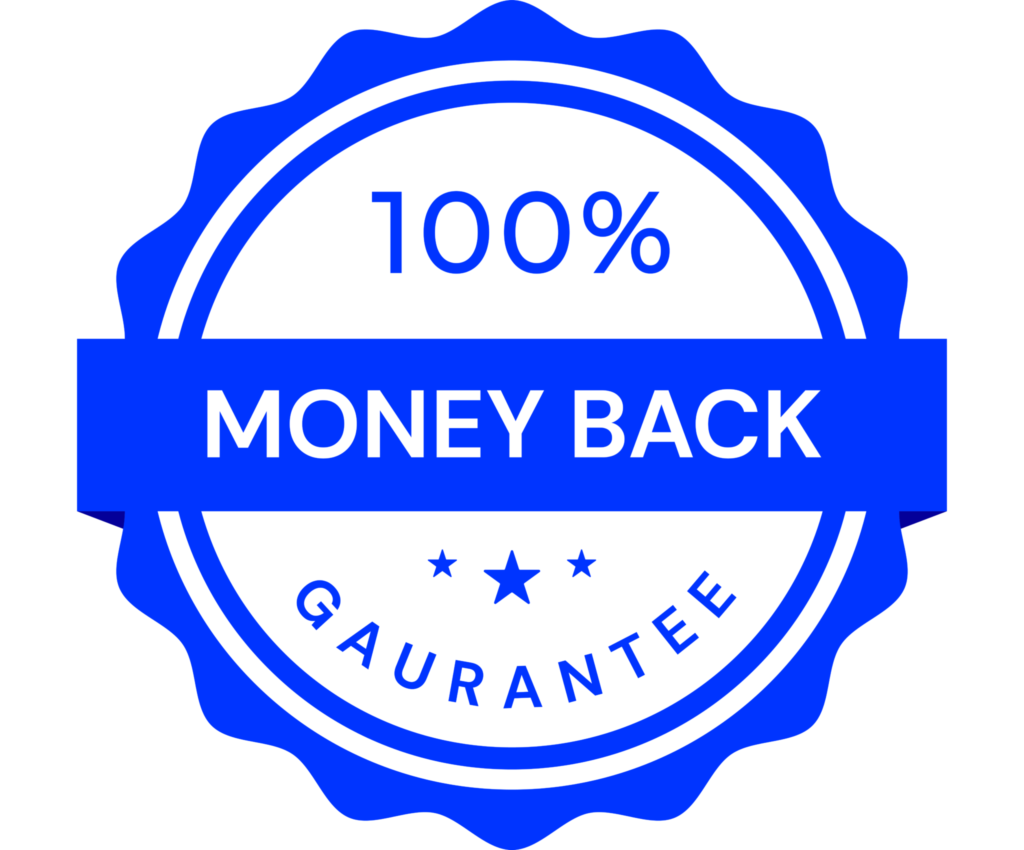
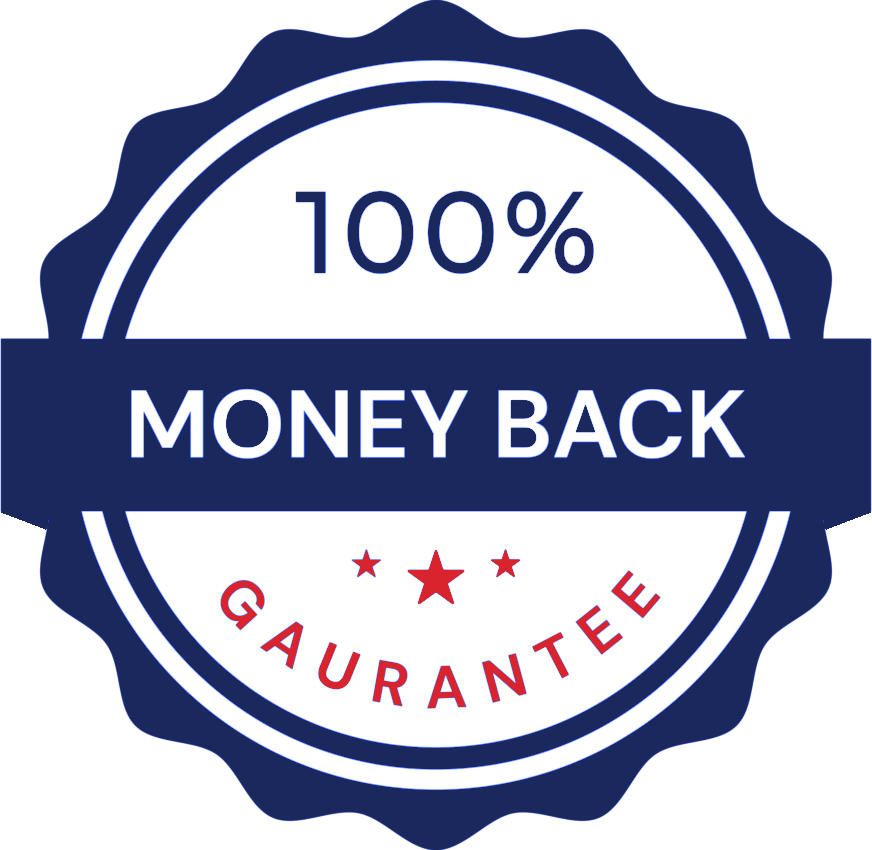
version 1.4.9-bug fix

diff --git a/components/home/home.js b/components/home/home.js
@@ -389,7 +389,7 @@ const HomeComponent = (props) => {
                   </Grid>
                   <Grid item xs={4} sm={12}>
                     <FormControl
-                      style={{ width: "110%", left: "3px" }}
+                      style={{ width: "100%" }}
                       sx={{ m: 0 }}
                       className={classes.homeServiceiconcategorieslbl}
                     >
@@ -742,7 +742,7 @@ const HomeComponent = (props) => {
                     <Grid container>
                       <Grid item xs={4} sm={12}>
                         <TextField
-                          style={{ width: "80%" }}
+                          style={{ width: "100%" }}
                           id="standard-required"
                           label="Name"
                           InputLabelProps={{
@@ -758,7 +758,7 @@ const HomeComponent = (props) => {
                       </Grid>
                       <Grid item xs={12} sm={12}>
                         <TextField
-                          style={{ width: "80%" }}
+                          style={{ width: "100%" }}
                           id="standard-required"
                           label="email"
                           value={enteredEmail}
@@ -775,7 +775,7 @@ const HomeComponent = (props) => {
                       </Grid>
                       <Grid item xs={12} sm={12}>
                         <TextField
-                          style={{ width: "80%" }}
+                          style={{ width: "100%" }}
                           id="standard-required"
                           label="Phone"
                           value={enteredPhone}
@@ -793,7 +793,7 @@ const HomeComponent = (props) => {
                       </Grid>
                       <Grid item xs={12} sm={12}>
                         <TextField
-                          style={{ width: "80%" }}
+                          style={{ width: "100%" }}
                           id="standard-required"
                           label="subject"
                           value={enteredMessage}
@@ -819,7 +819,7 @@ const HomeComponent = (props) => {
                         }}
                       >
                         <FormControl
-                          style={{ width: "80%" }}
+                          style={{ width: "100%" }}
                           sx={{ m: 0 }}
                           // style={{top:'30px',width:'183px'}}
                         >
@@ -867,7 +867,7 @@ const HomeComponent = (props) => {
                           top: "23px",
                           position: "relative",
                           left: "0px",
-                          maxWidth: "82%",
+                          maxWidth: "100%",
                         }}
                         item
                         xs={12}

diff --git a/pages/moneyBack.js b/pages/moneyBack.js
@@ -58,11 +58,11 @@ const MoneyBack = () => {
         
         borderStyle: 'solid',
         borderWidth: "0px 0px 0px 20px",
-        borderColor: "#0231f7",
+        borderColor: "#1f255e",
         transition: "background 0.3s, border 0.3s, border-radius 0.3s, box-shadow 0.3s",
             padding: "0px 0px 0px 0px",
         boxShadow:' 0px 0px 30px rgba(127, 137, 161, 0.25);'}}>
-   <h3 style={{color:'#da4536',textAlign:'center',top:'0px',position:'relative'}}>Spad Software Money Back Policy</h3>
+   <h3 style={{color:'#da4536',textAlign:'center',top:'0px',position:'relative', marginTop: '0px'}}>Spad Software Money Back Policy</h3>
 <Grid container rowSpacing={1} spacing={{ xs: 2, md: 3 }} columns={{ xs: 4, sm: 8, md: 12 }}
 style={{top:'0px',position:'relative'
 }}>
@@ -89,7 +89,7 @@ style={{top:'0px',position:'relative'
    in business for the long term. for some reason, 
    if you don’t feel satisfied we’re not satisfied as well
     either we do everything we can to make you happy or
-    &nbsp;<span style={{borderBottom:'3px solid #0231f7',color:'#0231f7'}}> you’ll 
+    &nbsp;<span style={{borderBottom:'3px solid #d9232d',color:'#d9232d'}}> you’ll 
     get 100% money back </span>after seeing the first design.</div>
 
    <div style={{paddingTop:'10px'}}><Image

diff --git a/components/layout/main-navigation.js b/components/layout/main-navigation.js
@@ -86,15 +86,16 @@ function MainNavigation(props) {
 
     const options = { passive: true }; // options must match add/remove event
     const scroll = (event) => {
-      if(event.path[1].window.pageYOffset){
-      if(event.path[1].window.pageYOffset<500){
-        setRerender(false);
-      }
-      else{
-        setRerender(true);
-        // console.log(rerender)
-      }
-      }
+      console.log(event)
+      // if(event.path[1]){
+      // if(event.path[1].window.pageYOffset<500){
+      //   setRerender(false);
+      // }
+      // else{
+      //   setRerender(true);
+      //   // console.log(rerender)
+      // }
+      // }
     };
     document.addEventListener("scroll", scroll, options);
     // remove event on unmount to prevent a memory leak

diff --git a/components/howItWorks/howItWorks.js b/components/howItWorks/howItWorks.js
@@ -52,7 +52,7 @@ const HowItWorks = () => {
         padding: "0px 0px 0px 0px",
     boxShadow:' 0px 0px 30px rgba(127, 137, 161, 0.25)'
     }}>
-      <h5 style={{fontSize:'18px',color:'#d1482d',textAlign:'center'}}>How Spad Software Works-It's 3 step process.</h5>
+      <h5 style={{fontSize:'18px',color:'#d1482d',textAlign:'center', marginTop: '0px'}}>How Spad Software Works-It's 3 step process.</h5>
       <div style={{fontSize:'18px',color:'#d1482d',textAlign:'center'}}>Start</div>
     <Timeline position="alternate" >
     <TimelineItem>

diff --git a/components/home/home.module.css b/components/home/home.module.css
@@ -300,6 +300,8 @@
   width: auto;
   animation: shake 1.5s infinite linear;
   transform: translate3d(0, 0, 0);
+  width: 30px;
+  height: 30px;
 }
 
 @keyframes shake {
@@ -402,12 +404,12 @@
 .homeServiceiconcategory{
 color: black;
 margin-top: 14px;
-    margin-left: 19px;
+    margin-left: 26px;
 /* margin-top: 20px; */
 }
 .homeServiceiconcategorylabel{
-  width: 71%;
-    left: 32px;
+  width: 80%;
+    left: 40px;
 }
 .homeServiceiconBtn{
   justify-content: center;
